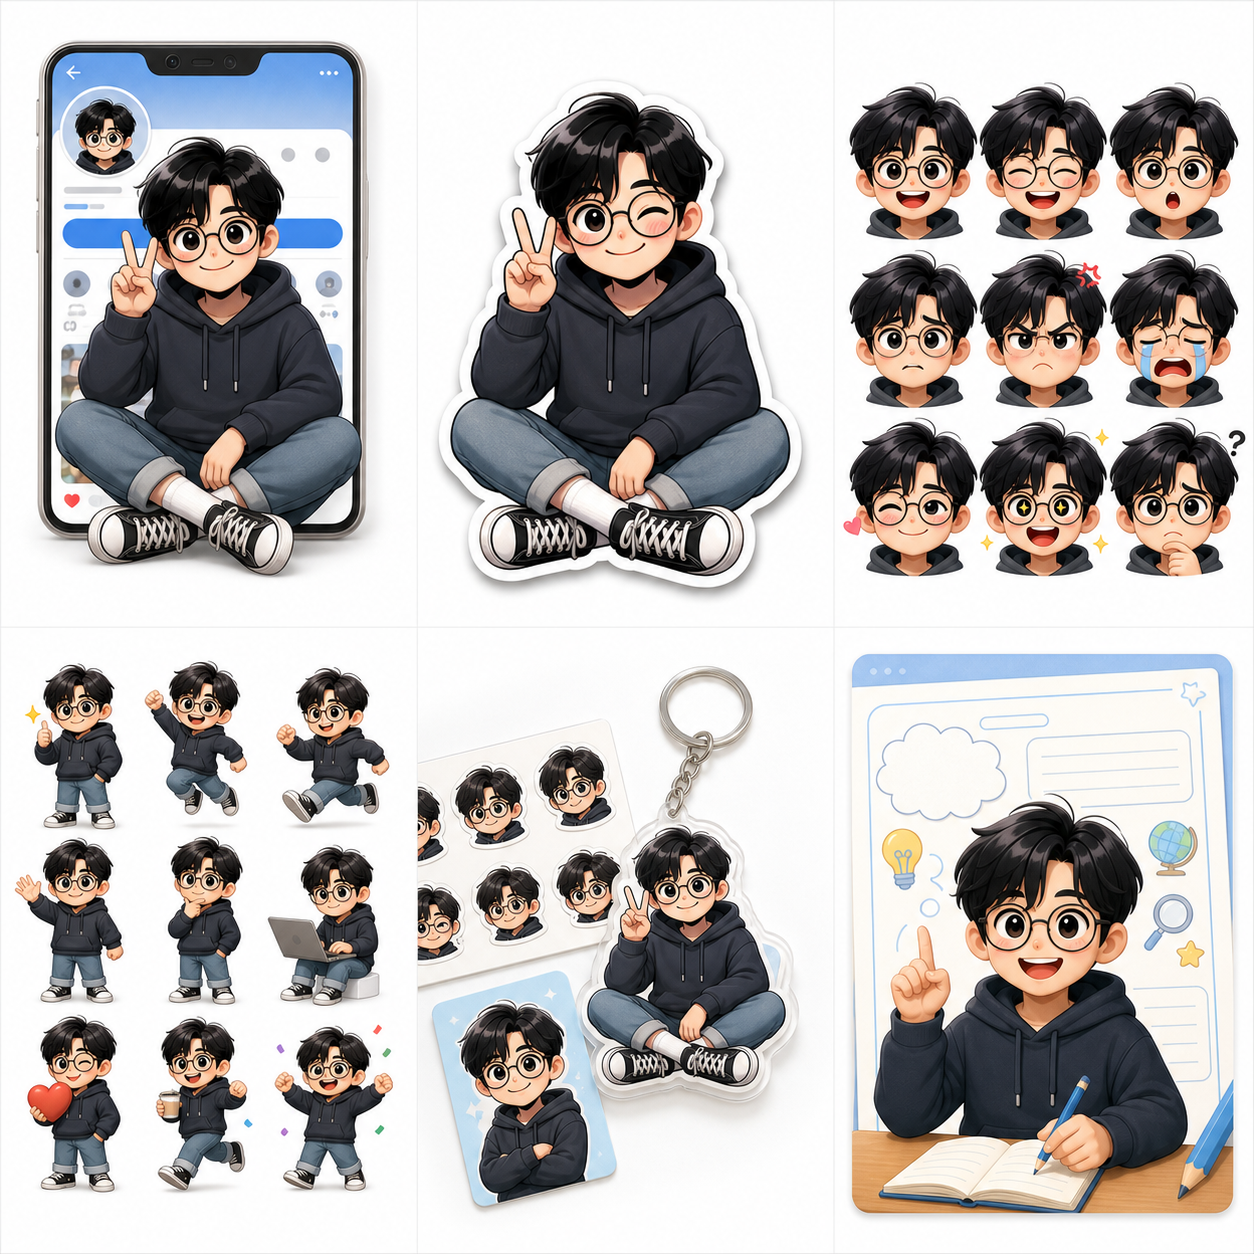
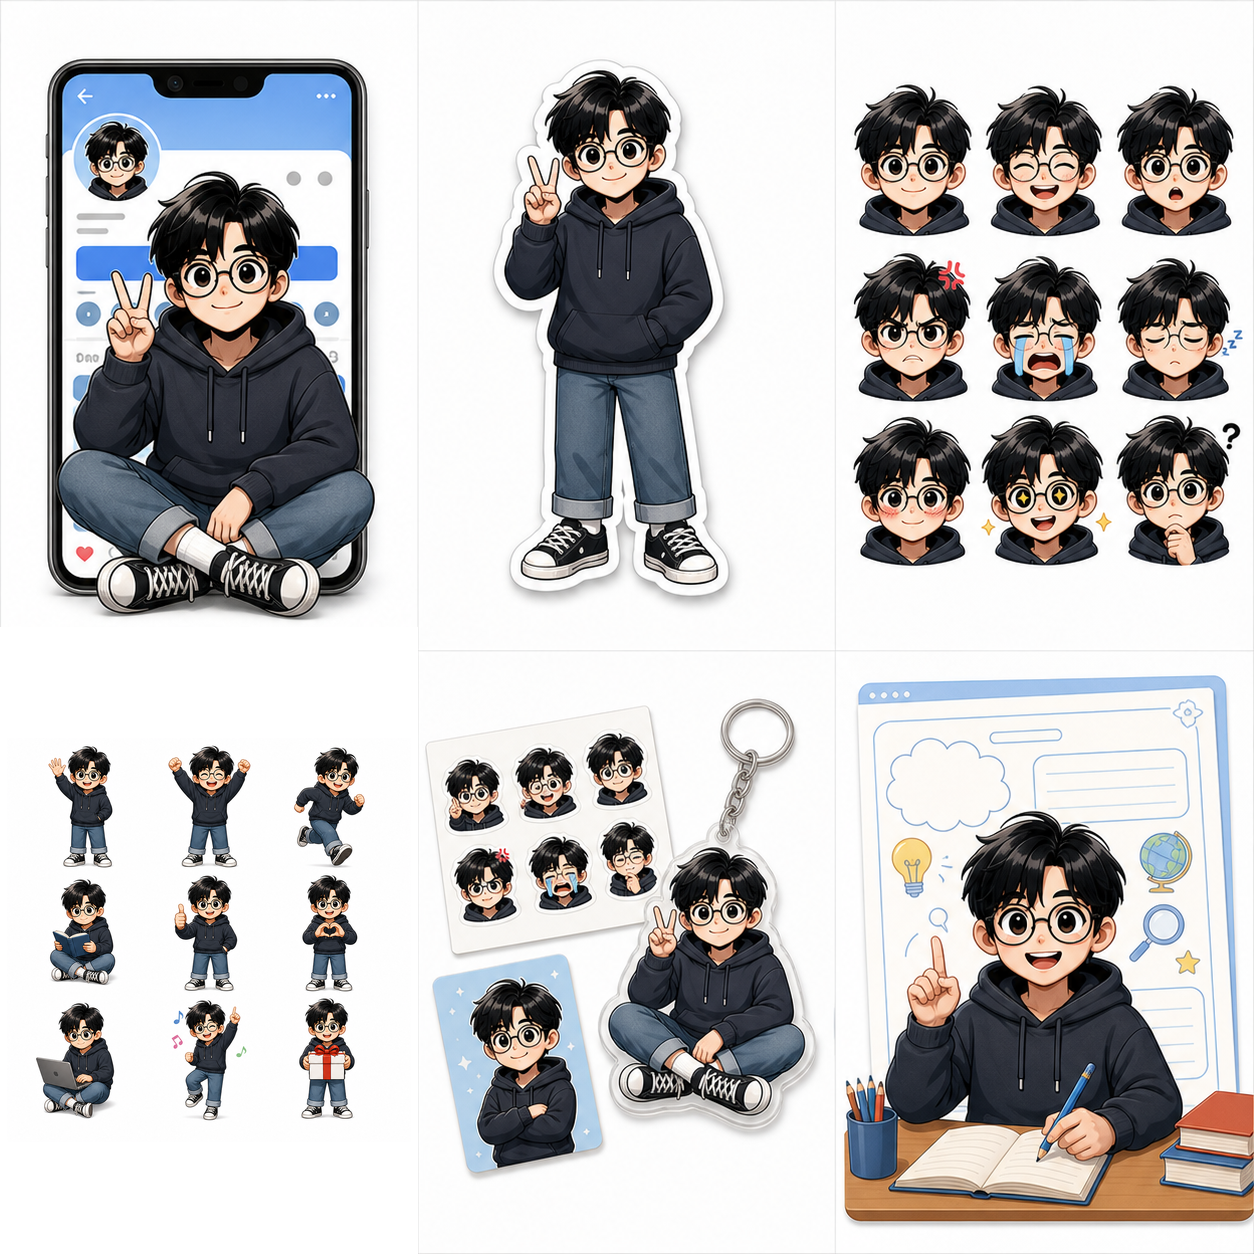
캐릭터 수정반영

diff --git a/index.html b/index.html
@@ -918,8 +918,6 @@
           <button class="action" type="button" data-copy-target="mainPrompt">영어 프롬프트 복사</button>
           <button class="action secondary" type="button" data-copy-target="koreanPrompt">한국어 프롬프트 복사</button>
           <button class="action secondary" type="button" id="copySelectedImages">선택 이미지 복사</button>
-          <button class="action secondary" type="button" id="copyEnglishWithImages">영어+선택 이미지 복사</button>
-          <button class="action secondary" type="button" id="copyKoreanWithImages">한글+선택 이미지 복사</button>
         </div>
         <div class="toast" id="toast" aria-live="polite"></div>
 
@@ -1411,8 +1409,6 @@
     const resetActive = document.querySelector("#resetActive");
     const resetAll = document.querySelector("#resetAll");
     const copySelectedImages = document.querySelector("#copySelectedImages");
-    const copyEnglishWithImages = document.querySelector("#copyEnglishWithImages");
-    const copyKoreanWithImages = document.querySelector("#copyKoreanWithImages");
     const openSampleModal = document.querySelector("#openSampleModal");
     const closeSampleModal = document.querySelector("#closeSampleModal");
     const sampleModal = document.querySelector("#sampleModal");
@@ -1426,8 +1422,6 @@
     });
 
     copySelectedImages.addEventListener("click", copySelectedImageSet);
-    copyEnglishWithImages.addEventListener("click", () => copyPromptWithSelectedImages("english"));
-    copyKoreanWithImages.addEventListener("click", () => copyPromptWithSelectedImages("korean"));
     openSampleModal.addEventListener("click", () => {
       sampleModal.classList.add("open");
     });
@@ -1891,48 +1885,8 @@
       }
     }
 
-    async function copyPromptWithSelectedImages(language) {
-      const prompt = language === "korean" ? koreanPrompt.value : mainPrompt.value;
-      const title = language === "korean" ? "한글 프롬프트" : "English prompt";
-      const entries = selectedImageEntriesForCopy();
-
-      if (!prompt.trim()) {
-        showToast("복사할 프롬프트가 없어요.");
-        return;
-      }
-
-      if (!entries.length) {
-        await copyText(prompt);
-        return;
-      }
-
-      if (location.protocol === "file:") {
-        showToast("open-copy-mode.cmd로 열고 다시 복사해 주세요.");
-        return;
-      }
-
-      try {
-        const blob = await selectedImagesBlob(entries);
-        const dataUrl = await blobToDataUrl(blob);
-        const html = `
-          <section>
-            <h3>${escapeHtml(title)}</h3>
-            <p style="white-space:pre-wrap;line-height:1.5;">${escapeHtml(prompt)}</p>
-            <img src="${dataUrl}" alt="선택한 캐릭터 옵션 이미지" style="max-width:100%;height:auto;">
-          </section>
-        `;
-        if (await copyHtmlAndTextToClipboard(html, `${title}\n${prompt}`)) {
-          showToast(`${language === "korean" ? "한글" : "영어"}+선택 이미지를 복사했어요.`);
-          return;
-        }
-        await copyText(`${title}\n${prompt}`);
-      } catch {
-        await copyText(`${title}\n${prompt}`);
-      }
-    }
-
     function selectedImageEntriesForCopy() {
-      const start = categories.findIndex(category => category.key === "feeling");
+      const start = categories.findIndex(category => category.key === "usage");
       const end = categories.findIndex(category => category.key === "shoesColor");
       const graphicCategory = getCategory("graphic");
       const graphicSelected = getSelected(graphicCategory);
@@ -1942,6 +1896,7 @@
       const partEntries = categories
         .slice(start, end + 1)
         .map(category => {
+          if (category.key === "graphic") return null;
           const selected = getSelected(category);
           if (!selected) return null;
           return { category, option: optionObject(category, selected, selectedIndex(category)) };
@@ -2031,51 +1986,6 @@
       } catch {
         return false;
       }
-    }
-
-    async function copyHtmlAndTextToClipboard(html, text) {
-      if (navigator.clipboard && window.ClipboardItem) {
-        try {
-          await navigator.clipboard.write([
-            new ClipboardItem({
-              "text/html": new Blob([html], { type: "text/html" }),
-              "text/plain": new Blob([text], { type: "text/plain" })
-            })
-          ]);
-          return true;
-        } catch {}
-      }
-
-      try {
-        const holder = document.createElement("div");
-        holder.contentEditable = "true";
-        holder.style.position = "fixed";
-        holder.style.left = "-9999px";
-        holder.style.top = "0";
-        holder.innerHTML = html;
-        document.body.appendChild(holder);
-
-        const range = document.createRange();
-        range.selectNodeContents(holder);
-        const selection = window.getSelection();
-        selection.removeAllRanges();
-        selection.addRange(range);
-        const copied = document.execCommand("copy");
-        selection.removeAllRanges();
-        holder.remove();
-        return copied;
-      } catch {
-        return false;
-      }
-    }
-
-    function escapeHtml(value) {
-      return String(value)
-        .replaceAll("&", "&amp;")
-        .replaceAll("<", "&lt;")
-        .replaceAll(">", "&gt;")
-        .replaceAll('"', "&quot;")
-        .replaceAll("'", "&#039;");
     }
 
     function openImageFallback(blob) {